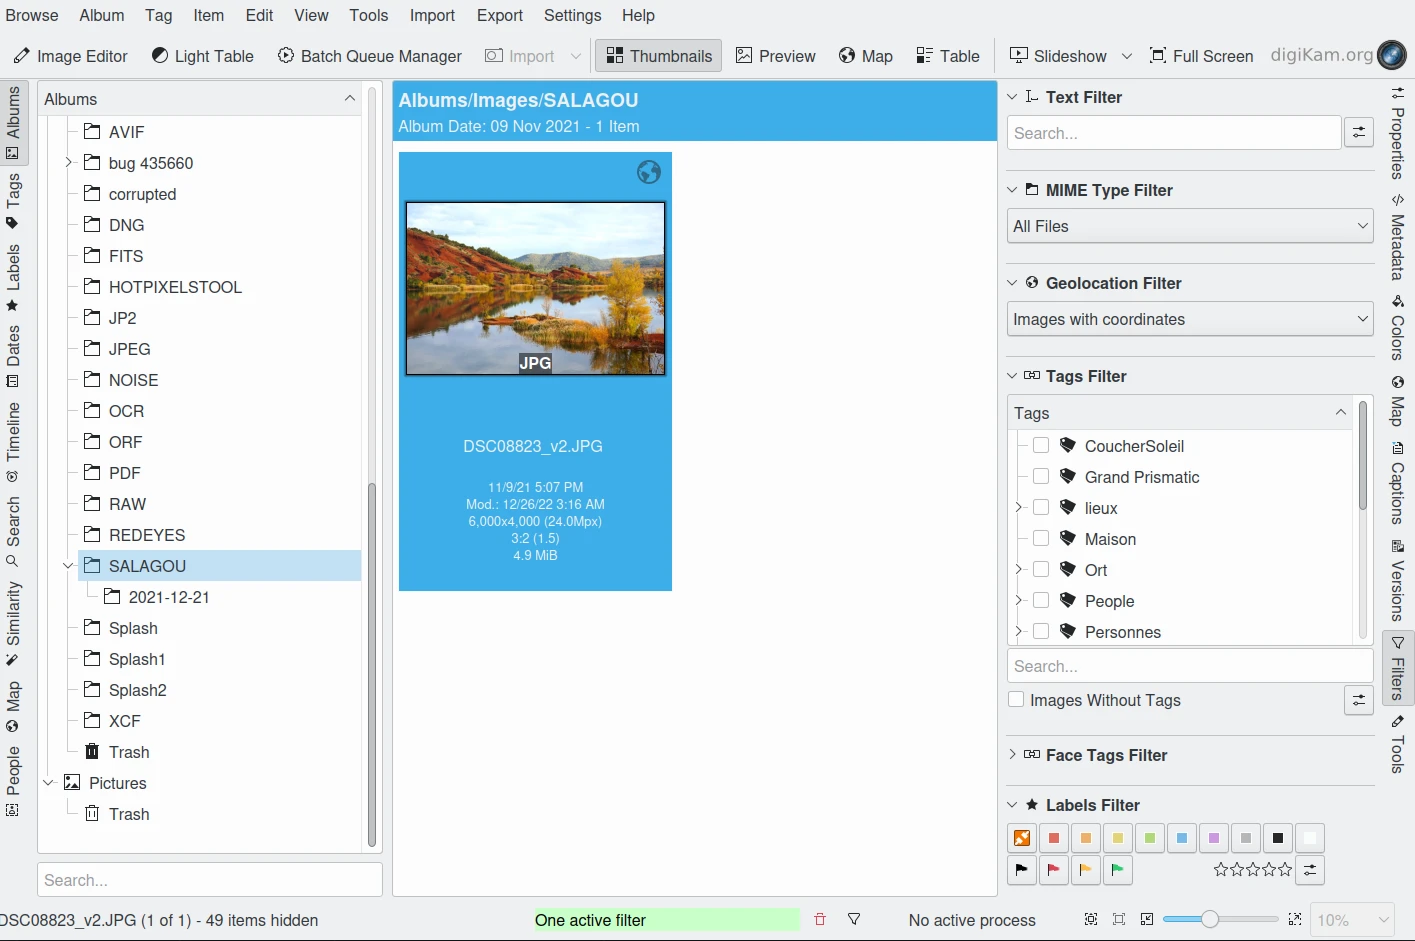
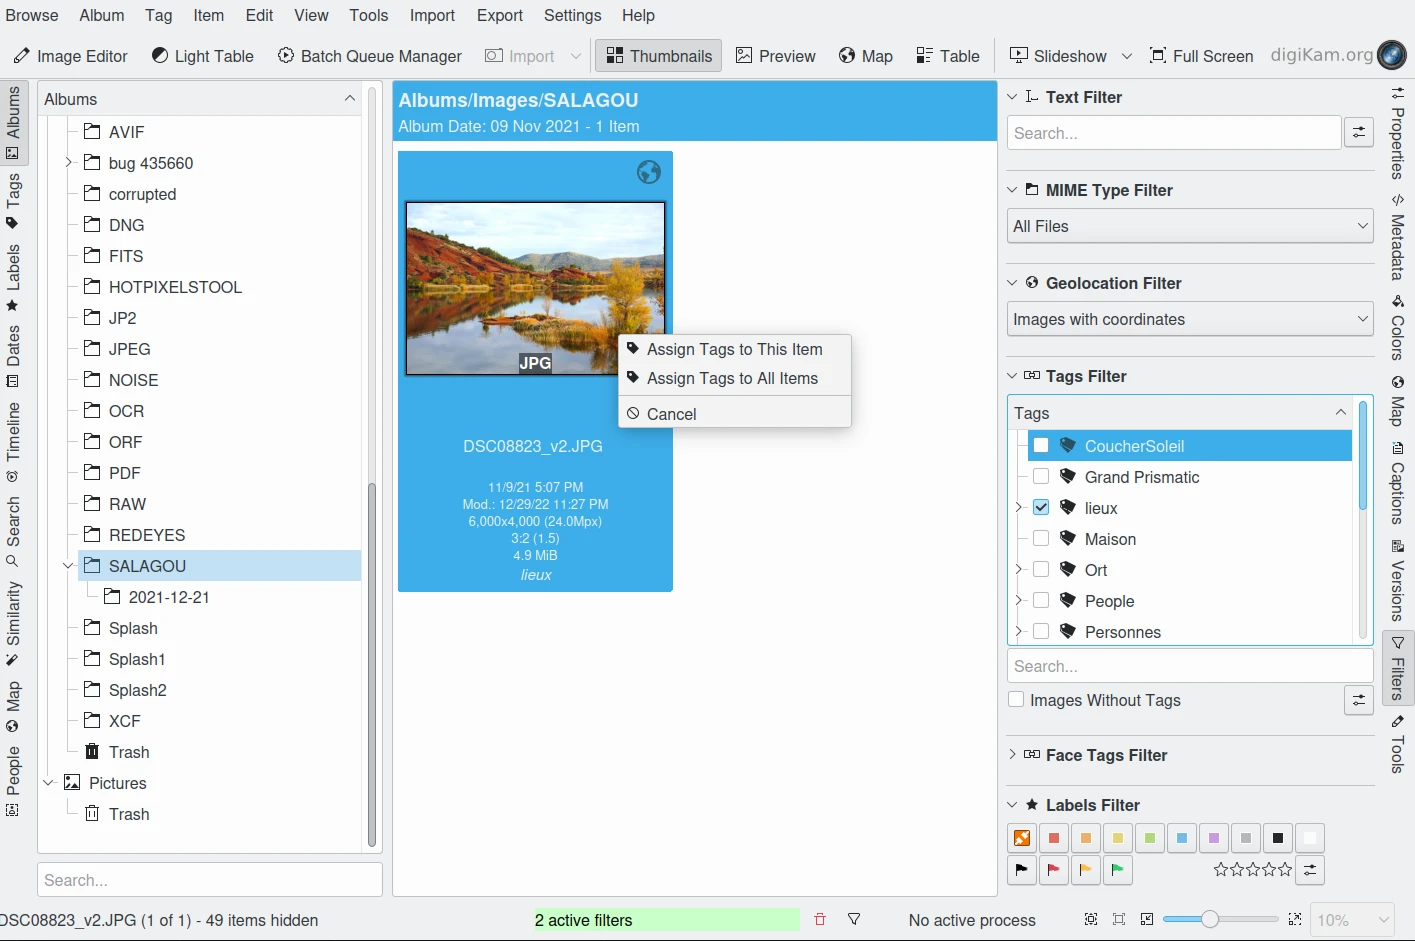
polish

diff --git a/right_sidebar/filters_view.rst b/right_sidebar/filters_view.rst
@@ -27,6 +27,6 @@ Another use of this tab of the Right Sidebar is drag and drop tagging. Lets say 
 
 .. figure:: images/sidebar_filters_view.webp
 
-In the above example the main window shows the images from a calendar date, the tag filter is set to 'Oldtimer', which reduces the set to 3 images. In the **Geolocation Filter**, we select **Images With Coordinates** which leaves only one picture of the cuurent selected album which includes GPS information. Then a tag is dragged from the **Tag Filter** over the icon and dropped. A pop-up dialog asks if the tag shall be applied to this item only or to all (displayed) items.
+In the above example the main window shows the images from an album, the tag filter is set to 'Lieux', which reduces the set to 3 images. In the **Geolocation Filter**, we select **Images With Coordinates** which leaves only one picture from the list of items including GPS information. Then a tag is dragged from the **Tag Filter** over the icon and dropped. A pop-up dialog asks if the tag shall be applied to this item only or to all (displayed) items.
 
 Note that the **Text Filter** has a little drop-down menu to select which image information should be included in the search and the rating group in the **Labels Filter** has one to choose whether you want a certain rating or a range.
